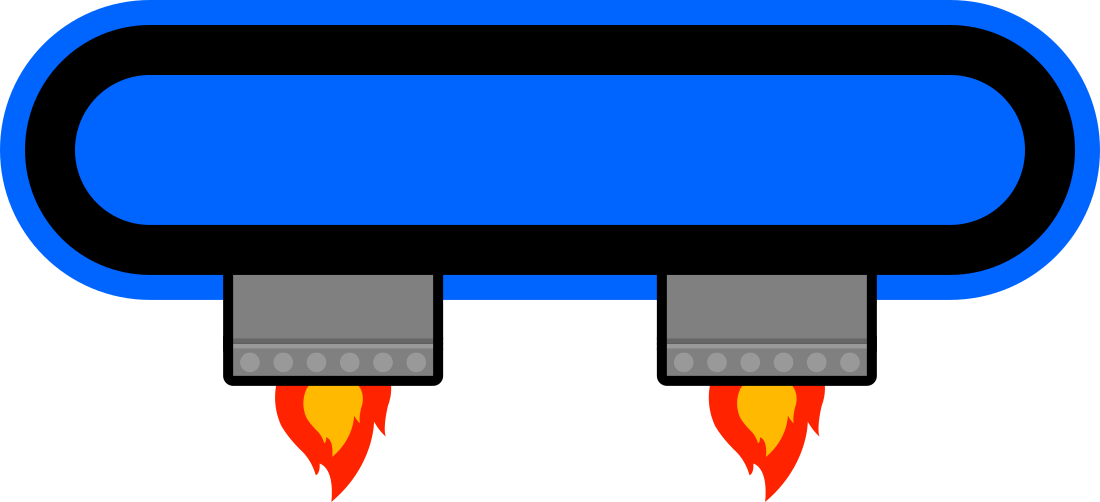
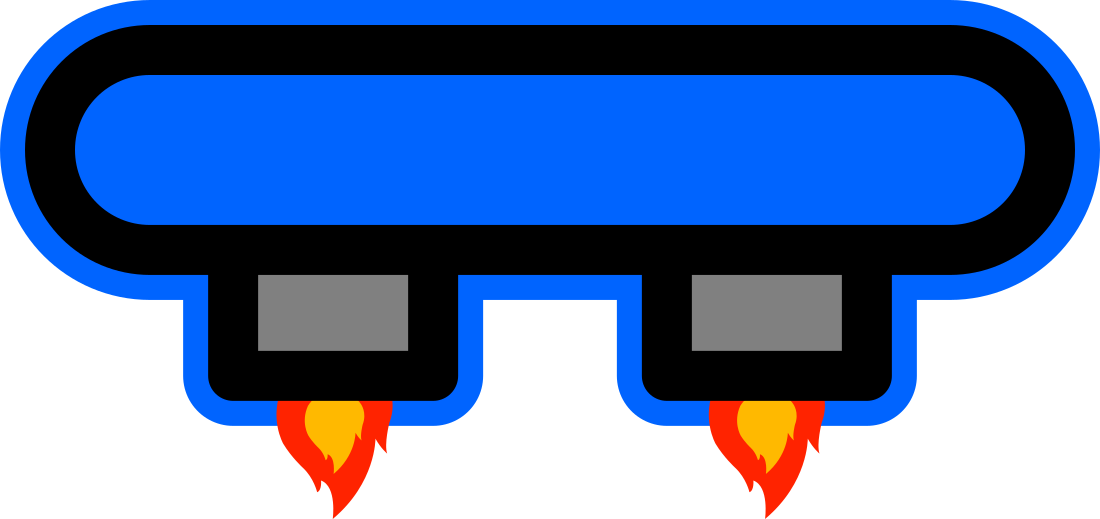
change moving platform sprite

diff --git a/constants.py b/constants.py
@@ -35,7 +35,7 @@ DEATH_PLATFORM_SPIKE_HEIGHT = 191*PLATFORM_SCALE # 491 - 300
 DISAPPEAR_PLATFORM_ALPHA = 255
 DISAPPEAR_PLATFORM_ALPHA_DECREASE = 20
 DISAPPEAR_PLATFORM_FALL_VELOCITY = 3
-MOVING_PLATFORM_JET_HEIGHT = 202*PLATFORM_SCALE # 501 - 300
+MOVING_PLATFORM_JET_HEIGHT = 219*PLATFORM_SCALE # 519 - 300
 MOVING_PLATFORM_SPEED = 1
 MOVING_PLATFORM_ANIMATION_SPEED = 3
 SCORE_CHANCE_INCREASE = 2000
